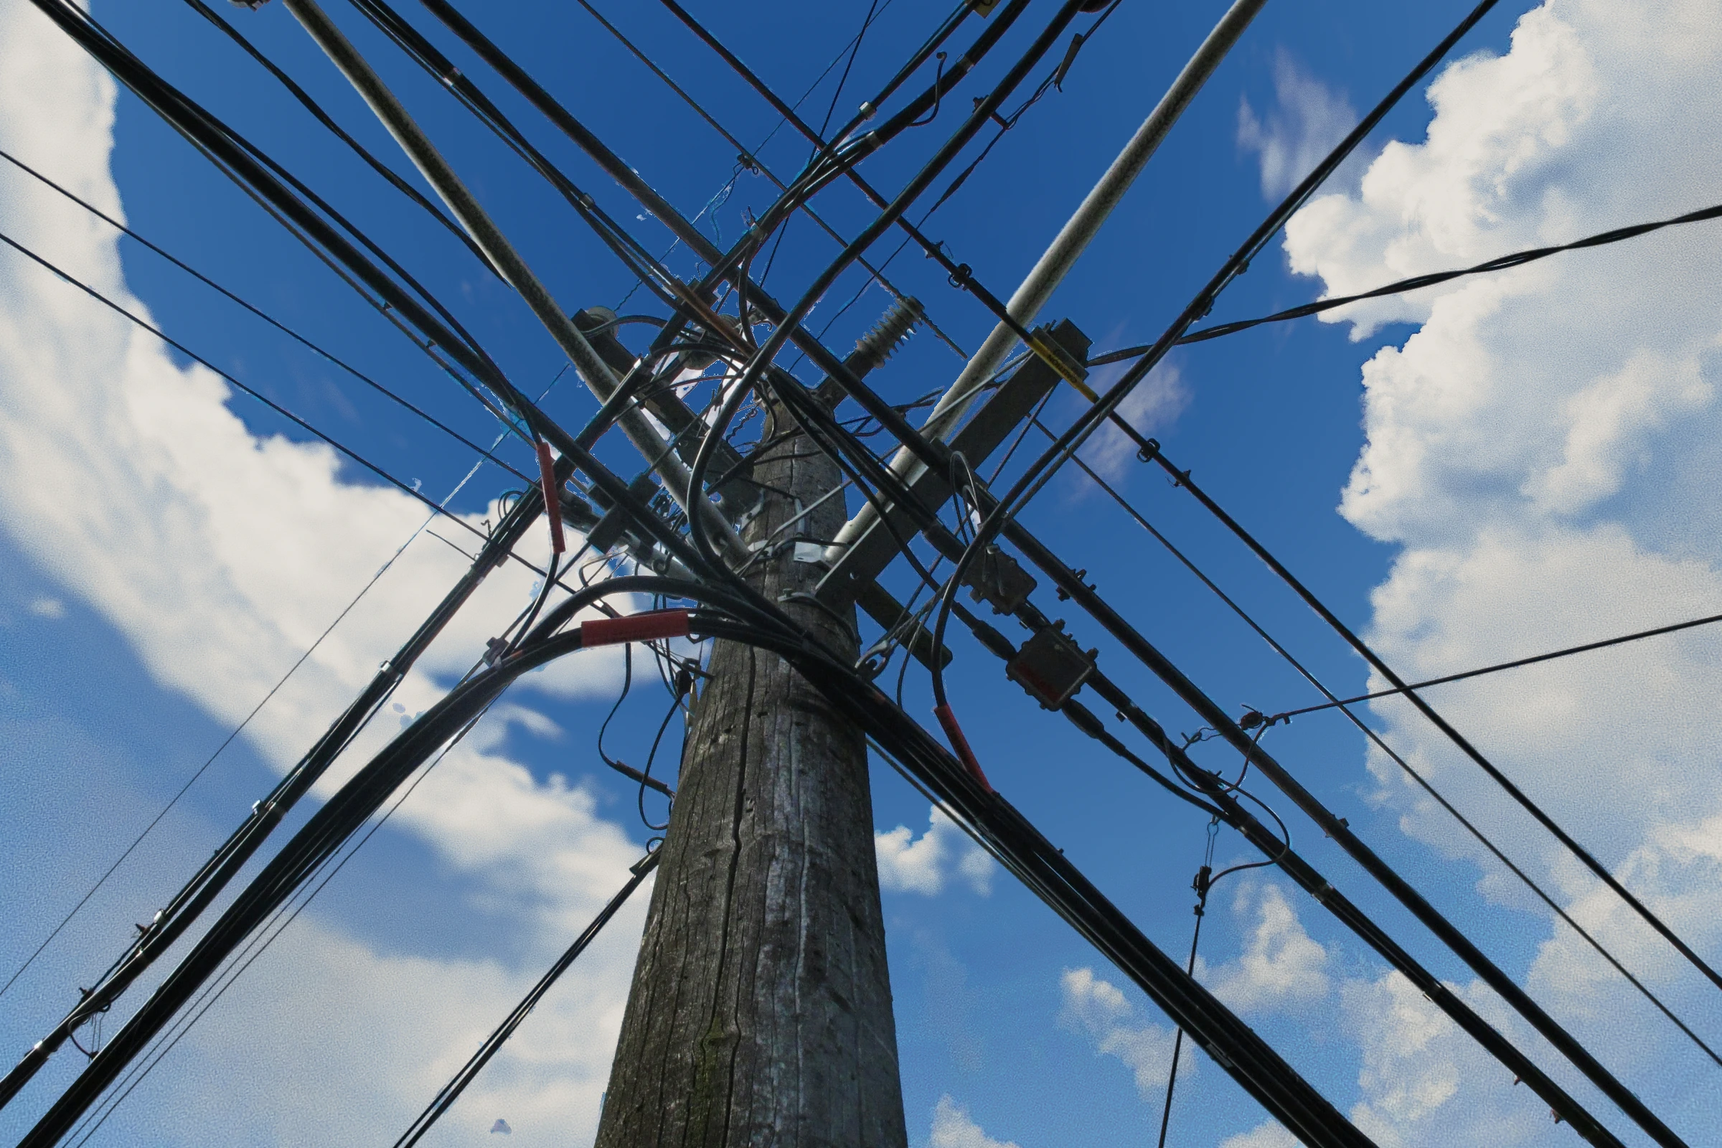
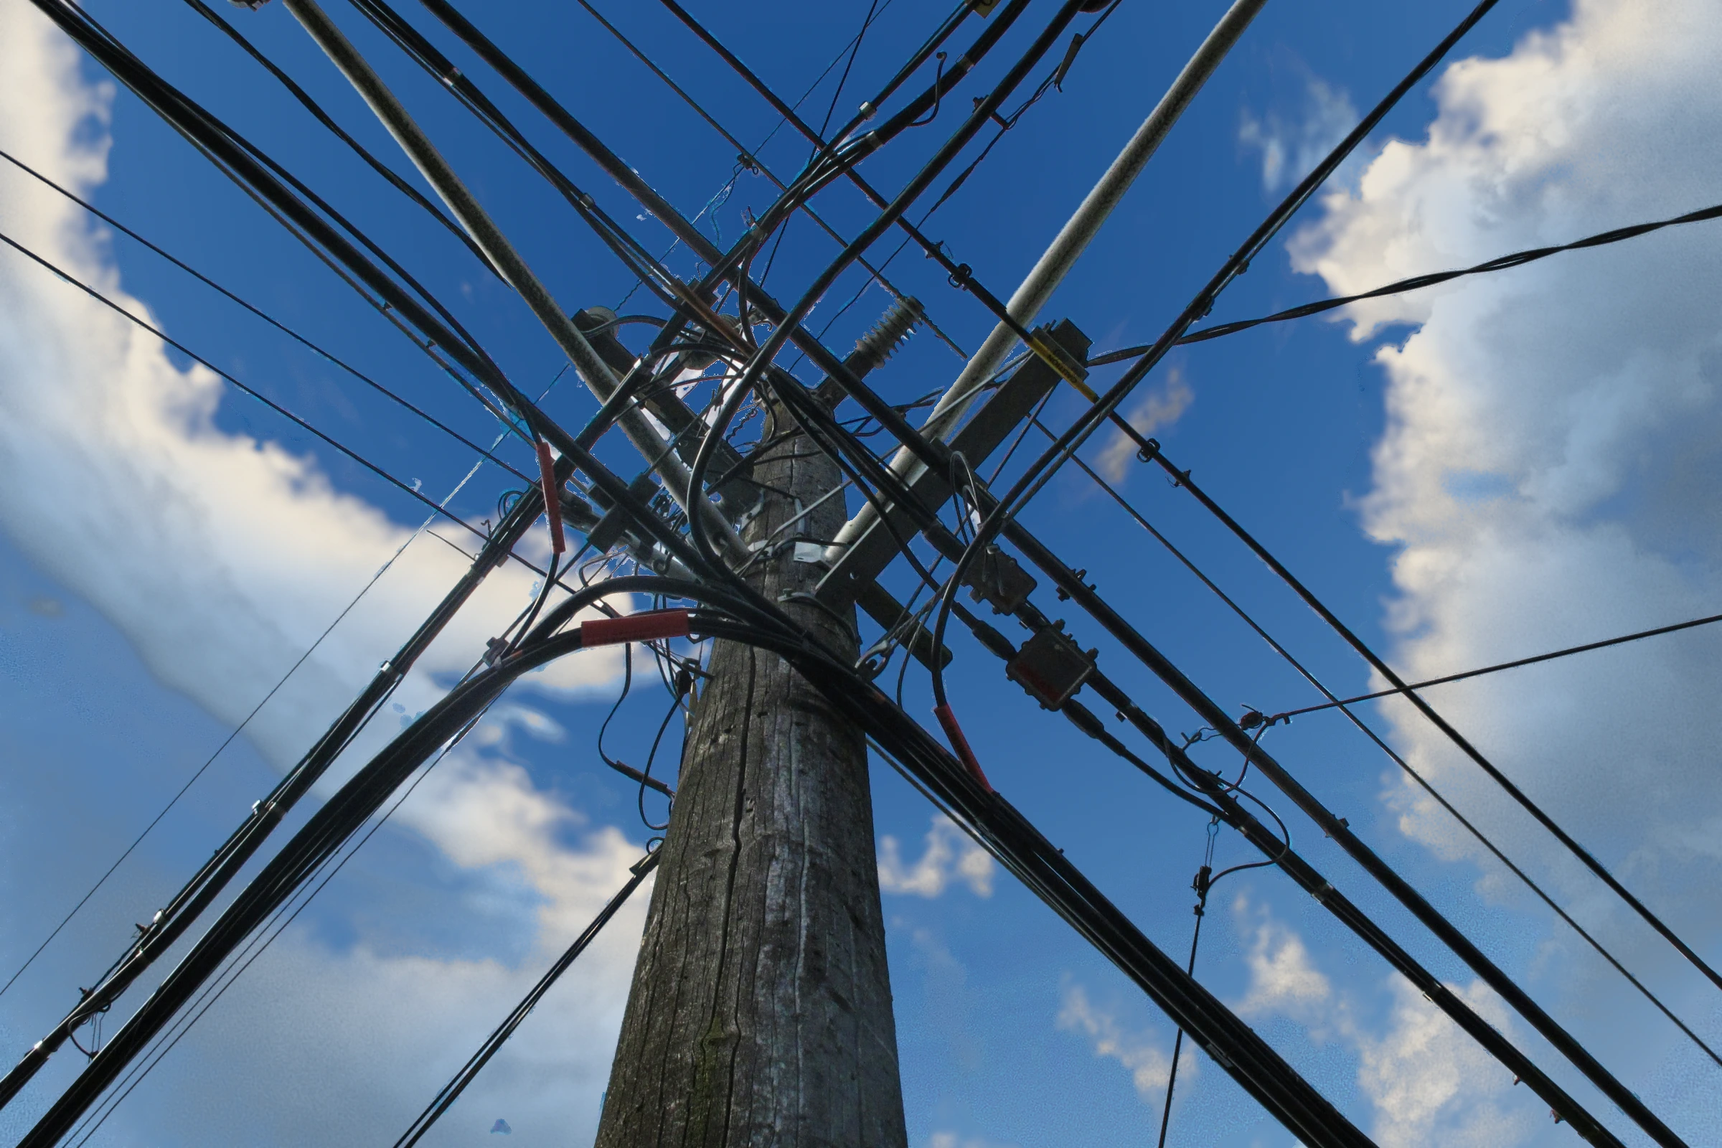
Lab: climb develop round 2
Claude-Session: https://claude.ai/code/session_01RqENhngNCzDFmJWDZueXGV

diff --git a/tools/depth/bakes/develop/bake.py b/tools/depth/bakes/develop/bake.py
@@ -4,7 +4,7 @@
     python3 -I bake.py --fill-only <out_dir> [work_dir]
     python3 -I bake.py --grade-only <out_dir> [work_dir]
     python3 -I bake.py --reach <out_dir> [work_dir]
-    python3 -I bake.py --sky <out_dir> [work_dir]
+    python3 -I bake.py --sky <out_dir> [work_dir]   (see "--sky" below)
 
 plate.webp and fill.webp ship graded (grade_sky): the sky re-graded radially
 round the zenith the pole points at, deep cobalt there opening to a paler
@@ -485,25 +485,63 @@ def write_sky_key(path, sky_key, key_r8):
 # new plate is that over the new sky. The sky key is measured again from the
 # new cloud.
 #
-# The cloud is graded as cumulus in sun is lit: its tops by the sun, a warm
-# neutral, rolled off on a shoulder well under paper white (sRGB luma <= TOP,
-# so no channel reaches 250 even after the warm tint); its shadowed undersides
-# lit only by the sky, so they take the sky's blue (SHADE_COL), more the
-# deeper the shade; the clear sky between takes the cobalt by a gain in log
-# light, so the photograph's own grain and drawing ride on it.
+# The cloud is graded as cumulus in sun is lit, as volumes (_cumulus_light):
+# each tower split by a large-radius optical depth towards the zenith and by
+# the plate's own shading into sunlit tops, a warm neutral rolled off on a
+# shoulder under paper white (sRGB luma <= TOP), and shadowed undersides and
+# folds lit only by the sky, a lifted skylight blue (SHADE_COL); the towers'
+# zenith-facing edges thin into the cobalt over a wide, noisy falloff; the
+# clear sky between takes the cobalt in log light, so the photograph's own
+# grain and drawing ride on it.
+#
+# Without the source photographs at hand (SKY_SRCS missing), --sky re-grades
+# the sky the last bake shipped instead (WK/base-sky.webp, copied from OUT's
+# fill.webp the first time), the older flat grade taken back out of it first
+# (_ungrade_cumulus).
 SKY_SRC = os.environ.get("SKY_SRC", "/tmp/claude-0/climb/develop/work/cc0/big.jpg")
 # (fx, fy, scale): the print's window into the sky photo, centre in 0..1 and
 # the share of the photo's width it takes
 SKY_WIN = tuple(float(v) for v in os.environ.get("SKY_WIN", "0.5,0.5,1.0").split(","))
 SKY_FLIP = os.environ.get("SKY_FLIP", "0") == "1"
-TOP = float(os.environ.get("TOP", "0.9"))
-SHADE_COL = _hex(os.environ.get("SHADE_COL", "#76a6d4"))
-SHADE = float(os.environ.get("SHADE", "0.85"))
-SHADE_LIFT = float(os.environ.get("SHADE_LIFT", "0.2"))
 SKY_GAIN = float(os.environ.get("SKY_GAIN", "0"))
 SKY_EST = float(os.environ.get("SKY_EST", "10"))  # the clear sky estimate's blur, quarter-size px
-SKY_LC = float(os.environ.get("SKY_LC", "0.8"))
-SKY_LC_PX = float(os.environ.get("SKY_LC_PX", "6"))
+# The cloud's light (_cumulus_light). A tower is graded as a volume lit from
+# above, not as one flat white: its tops by the sun, on a warm-neutral
+# shoulder that peaks at TOP (sRGB luma, under paper white); its undersides and
+# inner folds lit only by the sky, a lifted skylight blue (SHADE_COL, hue ~207,
+# value ~0.65), down by up to SHADE_STOPS from the light the plate had there.
+# The curds keep the photograph's own local contrast (it is not pulled back:
+# that is what flattened the towers into cut-out curds), so the lit/shade
+# split rides on a modelled surface.
+TOP = float(os.environ.get("TOP", "0.92"))
+SHADE_COL = _hex(os.environ.get("SHADE_COL", "#7893ad"))
+SHADE_FLOOR = float(os.environ.get("SHADE_FLOOR", "0.95"))
+CLOUD_EXP = float(os.environ.get("CLOUD_EXP", "1.2"))  # the cloud's light, before the shoulder
+SHADE_STOPS = float(os.environ.get("SHADE_STOPS", "1.6"))
+SHADE_MAX = float(os.environ.get("SHADE_MAX", "0.95"))
+# where the light comes from: the sun is high, near the zenith the pole
+# points at, so each tower is lit on the side that faces the open cobalt (its
+# top, leaning in) and in shade on the side towards the frame's edge (its
+# base, seen from under). LIGHT_PX: the depth of cloud, in print px along the
+# ray towards the zenith, that takes the light down by e (a large-radius
+# gradient across a tower, not a rim); SUN_TURN rotates that ray (degrees) so
+# the light is not exactly radial; FOLD: how much the plate's own shading
+# (a fold darker than the mass's sunlit level round it) adds.
+LIGHT_PX = float(os.environ.get("LIGHT_PX", "600"))
+LIGHT_TAU = float(os.environ.get("LIGHT_TAU", "380"))
+SUN_TURN = float(os.environ.get("SUN_TURN", "18"))
+FOLD = float(os.environ.get("FOLD", "0.7"))
+# The towers' zenith-facing edges thin into the cobalt over FEATHER_PX (print
+# px along the ray towards the zenith), the threshold riding on the cloud's
+# own density and on noise, so the denser curds hold on longest and the edge
+# breaks into wisps instead of ending on a stencilled, scalloped line.
+FEATHER_PX = float(os.environ.get("FEATHER_PX", "130"))
+FEATHER_NOISE = float(os.environ.get("FEATHER_NOISE", "0.45"))
+# A sky graded before this grade (SKY_BASE, the previous bake's fill.webp,
+# kept in WK as base-sky.webp the first time --sky runs without its source
+# photographs): its cloud share and the cloud's light are taken back out of
+# it (_ungrade_cumulus) and graded again. The older grade it undoes:
+OLD_TOP, OLD_LC, OLD_LC_PX = 0.9, 0.8, 6.0
 
 
 def _sky_window(path):
@@ -678,10 +716,19 @@ def _sky_lookup(spec):
     return np.clip(out * keep + clear * (1 - keep), 0, 1).astype(np.float32), np.maximum(S, 1e-4)
 
 
+def _sky_target(h=H, w=W):
+    """The clear sky the grade puts round the zenith (linear): cobalt there
+    opening to cyan, by angle from it."""
+    th = zenith_angle(h, w)
+    t = np.clip(th / th.max(), 0, 1) ** GRADE_EASE
+    t = t * t * (3 - 2 * t) * 0.35 + t * 0.65
+    return np.exp(np.log(s2l(GRADE_ZEN)) * (1 - t[..., None]) + np.log(s2l(GRADE_RIM)) * t[..., None]).astype(np.float32)
+
+
 def regrade_cumulus(P, S_known=None):
     """A photographed cumulus sky (linear) graded for the print: cobalt round
-    the zenith opening to cyan, sunlit warm-neutral tops, skylight-blue
-    undersides. Returns linear."""
+    the zenith opening to cyan, the towers lit as volumes (_cumulus_light).
+    Returns linear."""
     h, w = P.shape[:2]
     s = _skyness(P)
     q = 4
@@ -695,10 +742,7 @@ def regrade_cumulus(P, S_known=None):
     S = np.exp(cv2.resize(est, (w, h), interpolation=cv2.INTER_CUBIC))
     if S_known is not None:
         S = S_known
-    th = zenith_angle(h, w)
-    t = np.clip(th / th.max(), 0, 1) ** GRADE_EASE
-    t = t * t * (3 - 2 * t) * 0.35 + t * 0.65
-    T = np.exp(np.log(s2l(GRADE_ZEN)) * (1 - t[..., None]) + np.log(s2l(GRADE_RIM)) * t[..., None])
+    T = _sky_target(h, w)
     # Cloud's share of each pixel: how far it has gone from the clear sky
     # behind it towards neutral white (in linear light, by whiteness).
     wh = P.min(2) / np.maximum(P.max(2), 1e-4)
@@ -716,44 +760,211 @@ def regrade_cumulus(P, S_known=None):
     add = np.maximum(P + clear * (T - S), 0.2 * P)
     k = SKY_GAIN * (1 - smoothstep(0.0, 0.25, op))[..., None]
     B = mul * k + add * (1 - k)
-    # The cloud's own light. Its local contrast is pulled back first, in log
-    # light (LC of the detail over a SKY_LC_PX blur kept, in the cloud only):
-    # a cumulus photographed at a few hundred metres has every curd's edge
-    # crisp, and under the print's film and grain that read as crunchy,
-    # mottled texture. The masses keep their modelling; the curds go soft.
     Lb = np.log(np.maximum(B @ LUMA, 1e-5)).astype(np.float32)
-    base = cv2.GaussianBlur(Lb, (0, 0), SKY_LC_PX)
-    Lb = Lb + op * (SKY_LC - 1) * (Lb - base)
-    # then on a shoulder under TOP (sRGB)
-    Y = l2s(np.clip(np.exp(Lb), 0, 1))
-    knee = TOP - 0.2
+    return _cumulus_light(op, Lb, _behind(B, op))
+
+
+def _ungrade_cumulus(G):
+    """A sky graded by the older grade (flat white curds, local contrast at
+    OLD_LC, a shoulder under OLD_TOP) taken back to what _cumulus_light
+    needs: the cloud's share and each pixel's log luminance before that
+    grade. Its clear sky is exactly the target T
+    (the swap is additive), so the cloud's share is how far a pixel has gone
+    from T towards neutral white, or above it in light."""
+    h, w = G.shape[:2]
+    T = _sky_target(h, w)
+    wh = G.min(2) / np.maximum(G.max(2), 1e-4)
+    wT = T.min(2) / np.maximum(T.max(2), 1e-4)
+    op_w = np.clip((wh - wT) / np.maximum(0.9 - wT, 1e-3), 0, 1)
+    # a shaded underside the old grade tinted blue is not white, but it is
+    # lighter than the cobalt round it
+    Y = G @ LUMA
+    op_y = smoothstep(0.08, 0.6, np.log2(np.maximum(Y, 1e-5) / np.maximum(T @ LUMA, 1e-5)))
+    op = smoothstep(0.0, 1.0, np.maximum(op_w, op_y * smoothstep(0.1, 0.35, op_w + 0.15))).astype(np.float32)
+    # The old grade's edges are soft and white: by whiteness alone a thin
+    # edge reads as solid cloud, and graded as solid (in shade, a grey-blue
+    # less blue than the sky beside it) it drew a line round every tower. So
+    # the share is also how far its light has come from the sky's towards
+    # the cloud's own level round it (~50 px).
+    q = 4
+    lv = cv2.resize((Y * op).astype(np.float32), (w // q, h // q), interpolation=cv2.INTER_AREA)
+    lv = cv2.GaussianBlur(cv2.dilate(lv, disk(12)), (0, 0), 6)
+    lv = cv2.resize(lv, (w, h), interpolation=cv2.INTER_CUBIC)
+    YT = T @ LUMA
+    a_l = np.clip((Y - YT) / np.maximum(0.9 * lv - YT, 1e-3), 0, 1)
+    op = (op * smoothstep(0.0, 1.0, a_l) ** 0.5).astype(np.float32)
+    # its shoulder undone (sRGB), then its local contrast put back
+    # (the shoulder's top is a few code values, dithered: it is smoothed a
+    # little and only partly undone, or the grain blows up with it)
+    Ys = cv2.GaussianBlur(l2s(np.clip(Y, 0, 1)).astype(np.float32), (0, 0), 1.2)
+    knee = OLD_TOP - 0.2
+    u = np.clip((Ys - knee) / (OLD_TOP - knee), 0, 0.92)
+    Y0 = np.where(Ys < knee, Ys, knee + (OLD_TOP - knee) * np.arctanh(u))
+    Lb = np.log(np.maximum(s2l(np.clip(Y0, 0, 1)), 1e-5)).astype(np.float32)
+    # (well inside the cloud only: at its edge the blur takes in the sky)
+    base = cv2.GaussianBlur(Lb, (0, 0), OLD_LC_PX)
+    inside = smoothstep(0.85, 0.98, cv2.GaussianBlur(op, (0, 0), 8))
+    Lb = base + (Lb - base) / (1 + inside * (OLD_LC - 1))
+    return op, Lb.astype(np.float32), _behind(G, op)
+
+
+def _behind(C, op):
+    """The clear sky behind the cloud (linear): the sky itself where there is
+    no cloud (with whatever haze and grain the bake left in it), and under
+    the cloud pushed in from round it in log light. Not the target T: near
+    the rim the clear sky carries a little haze, and cloud laid over a sky
+    darker than the one round it drew a dark line along its edge."""
+    w = 1 - smoothstep(0.02, 0.15, op)
+    w = cv2.erode(w.astype(np.float32), disk(2))
+    lg = np.log(np.maximum(C, 1e-4)).astype(np.float32)
+    f = cv2.GaussianBlur(pushpull(lg, w), (0, 0), 6)
+    k = w[..., None]
+    return np.exp(lg * k + f * (1 - k)).astype(np.float32)
+
+
+def _fbm(h, w, scales, seed):
+    """Smooth noise, -1..1-ish: octaves of blurred white noise."""
+    rng = np.random.default_rng(seed)
+    n = np.zeros((h, w), np.float32)
+    amp = 1.0
+    for sc in scales:
+        hq, wq = max(8, int(h / sc * 4)), max(8, int(w / sc * 4))
+        r = cv2.GaussianBlur(rng.standard_normal((hq, wq)).astype(np.float32), (0, 0), 2)
+        r = cv2.resize(r, (w, h), interpolation=cv2.INTER_CUBIC)
+        n += amp * r / max(1e-6, float(r.std()))
+        amp *= 0.55
+    return n / max(1e-6, float(n.std())) * 0.5
+
+
+def _toward_zenith(f, reach, q=4, step=8.0):
+    """The integral of f (full size, 0..1) along each pixel's ray towards the
+    zenith (turned by SUN_TURN), out to each of `reach` (print px), stopping
+    at the zenith, at 1/q size, each over its own length (0..1). Full size."""
+    h, w = f.shape
+    hq, wq = h // q, w // q
+    fq = cv2.resize(f.astype(np.float32), (wq, hq), interpolation=cv2.INTER_AREA)
+    yy, xx = np.mgrid[0:hq, 0:wq].astype(np.float32)
+    px, py = (xx + 0.5) * q, (yy + 0.5) * q
+    dx, dy = ZEN[0] - px, ZEN[1] - py
+    dist = np.sqrt(dx * dx + dy * dy) + 1e-3
+    ux, uy = dx / dist, dy / dist
+    c, s_ = np.cos(np.radians(SUN_TURN)), np.sin(np.radians(SUN_TURN))
+    ux, uy = ux * c - uy * s_, ux * s_ + uy * c
+    out = []
+    acc = np.zeros((hq, wq), np.float32)
+    k = 1
+    for r in sorted(reach):
+        while k * step <= r:
+            o = k * step
+            smp = cv2.remap(fq, ((px + ux * o) / q - 0.5).astype(np.float32), ((py + uy * o) / q - 0.5).astype(np.float32), cv2.INTER_LINEAR,
+                            borderMode=cv2.BORDER_REPLICATE)
+            acc += smp * (o < dist) * step
+            k += 1
+        out.append(cv2.resize(acc / r, (w, h), interpolation=cv2.INTER_CUBIC))
+    return out
+
+
+def _cumulus_light(op, Lb, T):
+    """The cloud graded as volumes lit from above. op: the cloud's share of
+    each pixel; Lb: each pixel's log luminance (linear light), the
+    photograph's own local contrast in it; T: the clear sky behind it
+    (_behind). Returns linear."""
+    h, w = op.shape
+    # 1. The zenith-facing edges thin into the cobalt. How much cloud lies
+    # within FEATHER_PX of a pixel towards the zenith, roughened by noise,
+    # sets a threshold on the cloud's own density (its share, lifted where a
+    # curd is bright): at the very edge only the densest curds hold, a little
+    # further in the thinner cloud between them comes back, and past
+    # FEATHER_PX all of it.
+    soft = cv2.GaussianBlur(op, (0, 0), 10)
+    (inner,) = _toward_zenith(soft, [FEATHER_PX])
+    # over the cloud's own density here, so an even haze is not an edge
+    inner = inner / np.maximum(soft, 0.08)
+    nz = _fbm(h, w, (90, 36, 14), 21)
+    inner = np.clip(inner, 0, 1)
+    ramp = np.clip(inner + FEATHER_NOISE * nz * (1 - inner * inner), 0, 1)
+    ramp = ramp * ramp * (3 - 2 * ramp)
+    # a curd's brightness over its mass (z-scored), so the density spans a
+    # solid tower too: its bright curds dense, the darker seams between thin
+    dl = cv2.GaussianBlur(Lb, (0, 0), 3) - cv2.GaussianBlur(Lb, (0, 0), 28)
+    cm = op > 0.6
+    z = (dl - float(dl[cm].mean())) / max(1e-4, float(dl[cm].std())) if cm.any() else dl * 0
+    dz = np.clip(0.5 + 0.25 * z, 0, 1)
+    # the cloud's opacity fades over the ramp (it thins, it is not cut), the
+    # bright curds ahead of the seams between them in mid-ramp
+    keep = np.clip(ramp + 0.8 * (dz - 0.5) * 4 * ramp * (1 - ramp), 0, 1).astype(np.float32)
+    keep = cv2.GaussianBlur(keep, (0, 0), 3)
+    opk = op * keep
+    # 2. The cloud's own light, unmixed from the sky behind a thin edge
+    # (a pixel is T (1 - a) + cloud a), so the grade below lights the cloud,
+    # not the blue showing through it; then on a shoulder under TOP (sRGB):
+    # the sunlit tops a warm neutral that never reaches paper white.
+    a_ = np.clip(cv2.GaussianBlur(op, (0, 0), 3), 0, 1) ** 0.8
+    Yt = np.exp(Lb)
+    YT = T @ LUMA
+    Yc = np.maximum(Yt - (1 - a_) * YT, 0.6 * Yt) / np.maximum(a_, 0.08)
+    # Where the cloud is thin that division is mostly noise: there the cloud
+    # takes the light of the cloud just inside it (pushed out in log light)
+    wc = smoothstep(0.35, 0.75, a_).astype(np.float32)
+    Lc = np.repeat(np.log(np.maximum(Yc, 1e-4))[..., None], 3, 2).astype(np.float32)
+    Lf = pushpull(Lc, wc)[..., 0]
+    Yc = np.exp(np.log(np.maximum(Yc, 1e-4)) * wc + Lf * (1 - wc))
+    Y = l2s(np.clip(Yc * CLOUD_EXP, 0, 1))
+    knee = TOP - 0.22
     Ys = np.where(Y < knee, Y, knee + (TOP - knee) * np.tanh((Y - knee) / (TOP - knee)))
     Yl = s2l(Ys)
-    # lit by the sun (warm neutral) at the tops, by the sky (blue) in shade:
-    # shade is how far under the cloud's own sunlit level round it this is
-    # (a cumulus mass's sunlit level, reached over ~150 px: at 1/4 size)
-    top = cv2.resize(Yl * op, (w // 4, h // 4), interpolation=cv2.INTER_AREA)
+    # 3. Shade. The sun's light reaches a pixel through the cloud between it
+    # and the zenith (a large-radius optical depth, so a tower goes from lit
+    # top to shaded base across its whole width), and a fold darker than the
+    # mass's sunlit level round it (~150 px) is in shade whatever its depth.
+    (depth,) = _toward_zenith(cv2.GaussianBlur(opk, (0, 0), 6), [2 * LIGHT_PX])
+    depth = cv2.GaussianBlur(depth, (0, 0), 24)
+    s_dir = 1 - np.exp(-depth * 2 * LIGHT_PX / LIGHT_TAU)
+    top = cv2.resize(Yl * opk, (w // 4, h // 4), interpolation=cv2.INTER_AREA)
     top = cv2.GaussianBlur(cv2.dilate(top, disk(36)), (0, 0), 12)
     top = cv2.resize(top, (w, h), interpolation=cv2.INTER_CUBIC)
     rel = Yl / np.maximum(top, 1e-3)
-    shade = (1 - smoothstep(0.3, 0.95, rel)) * SHADE
-    # A shadowed underside is lit by the whole dome of blue round it, not a
-    # grey: it takes the skylight's hue (SHADE_COL, ~210) at a raised
-    # saturation, and is lifted a little (SHADE_LIFT stops at full shade) so
-    # it sits a mid skylight blue rather than going down into mud.
-    Yl = Yl * np.exp2(SHADE_LIFT * shade * op)
-    warm = HI_COL / float(HI_COL @ LUMA)
-    blue = SHADE_COL / float(SHADE_COL @ LUMA)
-    tint = warm * (1 - shade[..., None]) + blue * shade[..., None]
-    cloud = Yl[..., None] * tint
-    # over the clear sky the graded blue stays as it is; the cloud's tint
-    # comes in with its share
-    o = op[..., None] ** 0.8
-    out = B * (Yl / np.maximum(B @ LUMA, 1e-5))[..., None] * (1 - o) + cloud * o
+    # (read only well inside the cloud: at its edge the light is part sky,
+    # and a fold there would draw a dark outline round every tower)
+    s_fold = (1 - smoothstep(0.35, 0.8, rel)) * smoothstep(0.85, 0.98, cv2.GaussianBlur(op, (0, 0), 14))
+    shade = np.clip(1 - (1 - s_dir) * (1 - FOLD * s_fold), 0, 1)
+    shade = cv2.GaussianBlur(shade.astype(np.float32), (0, 0), 3) * SHADE_MAX
+    # A shadowed underside is lit by the whole dome of blue round it: it takes
+    # the skylight's hue (SHADE_COL) and goes down by up to SHADE_STOPS, its
+    # curds' modelling riding on it, a lifted mid blue rather than a grey.
+    # (a top in the sun keeps all its light and its warmth; the hue turns to
+    # the sky's blue before the light goes all the way down)
+    # Lifted: never under the clear sky's own light beside it (as blue as the
+    # sky and darker, a shadowed base at the rim drew a dark line where it
+    # meets the haze)
+    Yl = np.maximum(Yl * np.exp2(-SHADE_STOPS * smoothstep(0.12, 1.0, shade)), np.minimum(Yl, SHADE_FLOOR * YT))
+    # (the colours are sRGB: taken to linear light before they tint it.
+    # The sun's warmth is in the light near the shoulder; a mid-tone that is
+    # neither top nor shade is a neutral, or it reads khaki)
+    hl, sl = s2l(HI_COL), s2l(SHADE_COL)
+    wt = smoothstep(knee - 0.12, TOP, Ys)[..., None]
+    warm = (1 - wt) + wt * hl / float(hl @ LUMA)
+    blue = sl / float(sl @ LUMA)
+    # and cloud dimmer than its mass's sunlit level round it is not in the
+    # sun, wherever it is: it takes the sky's hue (not less light, which at a
+    # tower's edge would draw an outline; a warm tint there goes khaki)
+    sb = smoothstep(0.1, 0.7, np.maximum(shade, 1 - smoothstep(0.45, 0.85, rel)))[..., None]
+    cloud = Yl[..., None] * (warm * (1 - sb) + blue * sb)
+    # 4. Over the clear sky by its share, less what the feather took.
+    ak = (a_ * keep)[..., None]
+    out = T * (1 - ak) + cloud * ak
     g = l2s(np.clip(out, 0, 1))
-    cl = op > 0.6
-    print("sky: cloud px", round(float(cl.mean()), 3), "top sRGB max", np.round(g[cl].max(0) * 255, 1) if cl.any() else "-",
-          "p99.9", np.round(np.percentile(g[cl], 99.9, axis=0) * 255, 1) if cl.any() else "-")
+    cl = opk > 0.6
+    if cl.any():
+        lit, shd = cl & (shade < 0.25), cl & (shade > 0.6)
+        print("sky: cloud px", round(float(cl.mean()), 3), "lit", round(float(lit.sum() / cl.sum()), 2),
+              "shade", round(float(shd.sum() / cl.sum()), 2), "top sRGB max", np.round(g[cl].max(0) * 255, 1),
+              "p99.9", np.round(np.percentile(g[cl], 99.9, axis=0) * 255, 1),
+              "shade median", np.round(np.median(g[shd], 0) * 255) if shd.any() else "-",
+              "feathered px", round(float(((keep < 0.5) & (op > 0.3)).mean()), 4))
+    save8(os.path.join(WK, "p-shade.png"), cv2.resize(shade, (w // 2, h // 2)))
+    save8(os.path.join(WK, "p-keep.png"), cv2.resize(keep, (w // 2, h // 2)))
+    save8(os.path.join(WK, "p-op.png"), cv2.resize(op, (w // 2, h // 2)))
     return np.clip(out, 0, 1).astype(np.float32)
 
 
@@ -976,9 +1187,21 @@ if "--sky" in sys.argv:
     fill0 = _read_lin(os.path.join(WK, "orig-fill.webp"))
     a3 = alpha[..., None]
     pm = np.minimum(np.maximum(plate0 - (1 - a3) * fill0, 0), a3) * (a3 > 0.004)
-    raw, S_known = _sky_lookup(SKY_SRCS) if SKY_SRCS else (_sky_window(SKY_SRC), None)
-    save8(os.path.join(WK, "p-sky-raw.png"), l2s(raw)[:, :, ::-1])
-    sky = regrade_cumulus(raw, S_known)
+    srcs = [s_.split(":")[0] for s_ in SKY_SRCS.split(",")] if SKY_SRCS else [SKY_SRC]
+    if all(os.path.exists(p_) for p_ in srcs):
+        raw, S_known = _sky_lookup(SKY_SRCS) if SKY_SRCS else (_sky_window(SKY_SRC), None)
+        save8(os.path.join(WK, "p-sky-raw.png"), l2s(raw)[:, :, ::-1])
+        sky = regrade_cumulus(raw, S_known)
+    else:
+        # the source photographs are not at hand: re-grade the sky the last
+        # bake shipped (kept as base-sky.webp the first time), its older grade
+        # taken back out first
+        base = os.environ.get("SKY_BASE", os.path.join(WK, "base-sky.webp"))
+        if not os.path.exists(base):
+            import shutil
+            shutil.copyfile(os.path.join(OUT, "fill.webp"), base)
+        print("sky: no source photographs; re-grading", base)
+        sky = _cumulus_light(*_ungrade_cumulus(_read_lin(base)))
     plate = np.clip(pm + (1 - a3) * sky, 0, 1)
     write_srgb(os.path.join(OUT, "plate.webp"), plate, 11)
     write_srgb(os.path.join(OUT, "fill.webp"), sky, 12)
